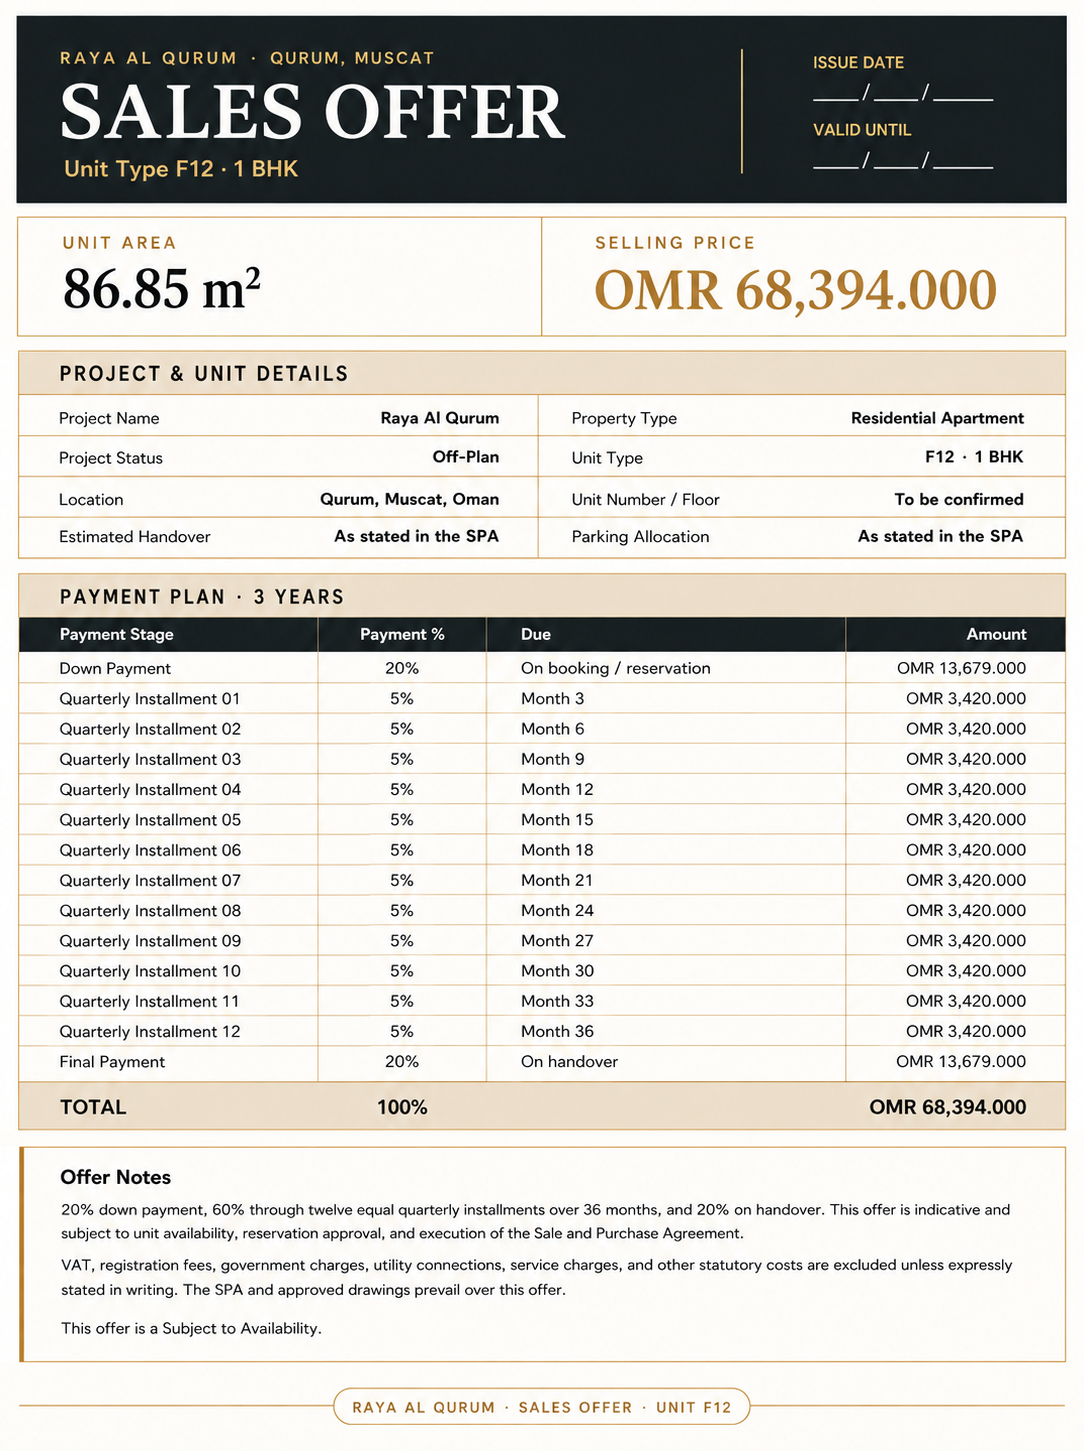
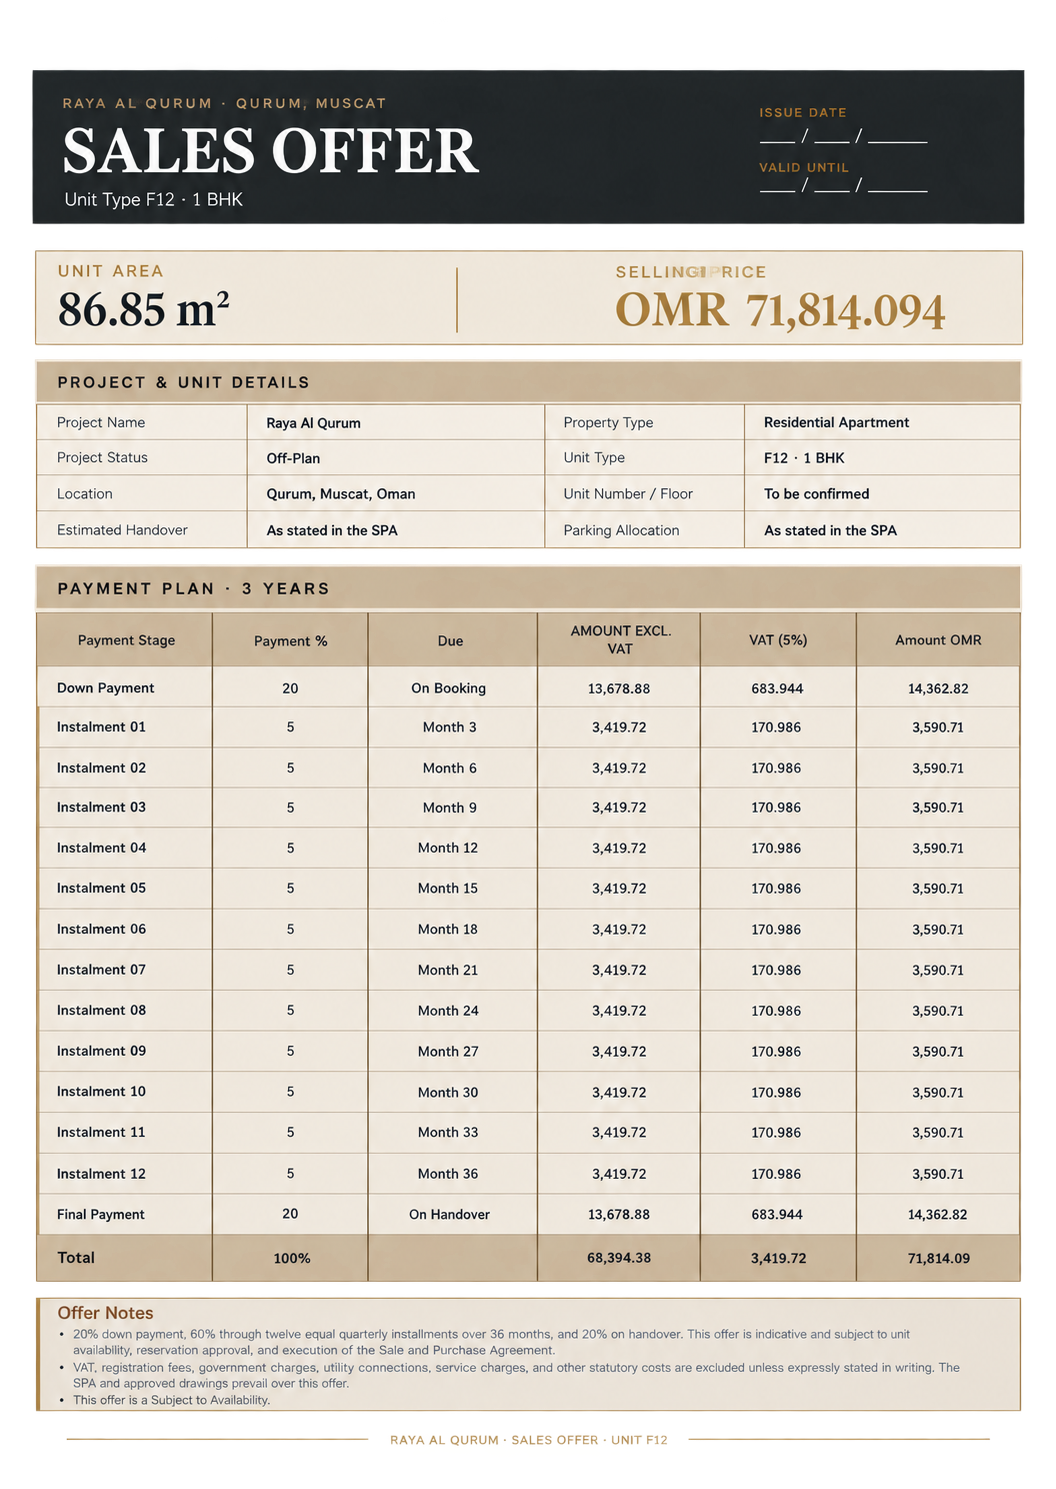
Update residence layout and sales offer images

diff --git a/src/components/F12OneBHK.jsx b/src/components/F12OneBHK.jsx
@@ -38,8 +38,8 @@ export default function F8OneBHK() {
     description:
       "A thoughtfully planned one-bedroom residence designed for comfortable, elegant and efficient modern living.",
 
-    area: "86.85 m²",
-    price: "OMR 68,394.000",
+    area: "86.85 SQ.M.",
+    price: "OMR 71,814.094",
 
     bedrooms: "1",
     baths: "1+1",
@@ -513,7 +513,7 @@ export default function F8OneBHK() {
 
               <div className="sales-info-item">
                 <span>INDICATIVE PRICE</span>
-                <strong>OMR 68,394.000</strong>
+                <strong>OMR 71,814.094</strong>
               </div>
 
             </div>

diff --git a/src/components/F8OneBHK.jsx b/src/components/F8OneBHK.jsx
@@ -38,8 +38,8 @@ export default function F8OneBHK() {
     description:
       "A thoughtfully planned one-bedroom residence designed for comfortable, elegant and efficient modern living.",
 
-    area: "69.80 m²",
-    price: "OMR 54,968.000",
+    area: "69.80 SQ.M.",
+    price: "OMR 57,715.875",
 
     bedrooms: "1",
     baths: "2",
@@ -513,7 +513,7 @@ export default function F8OneBHK() {
 
               <div className="sales-info-item">
                 <span>INDICATIVE PRICE</span>
-                <strong>OMR 54,968.000</strong>
+                <strong>OMR 57,715.875</strong>
               </div>
 
             </div>

diff --git a/src/components/F13-1BHK-Study.jsx b/src/components/F13-1BHK-Study.jsx
@@ -38,8 +38,8 @@ export default function F13OneBHK() {
     description:
       "A thoughtfully planned one-bedroom residence with a dedicated study, designed for comfortable, elegant and efficient modern living.",
 
-    area: "81.78 m²",
-    price: "OMR 67,469.000",
+    area: "81.78 SQ.M.",
+    price: "OMR 70,841.925",
 
     bedrooms: "1",
     baths: "1+1",
@@ -491,7 +491,7 @@ return (
 
               <div className="sales-info-item">
                 <span>INDICATIVE PRICE</span>
-                <strong>OMR 67,469.000</strong>
+                <strong>OMR 70,841.925</strong>
               </div>
 
             </div>
